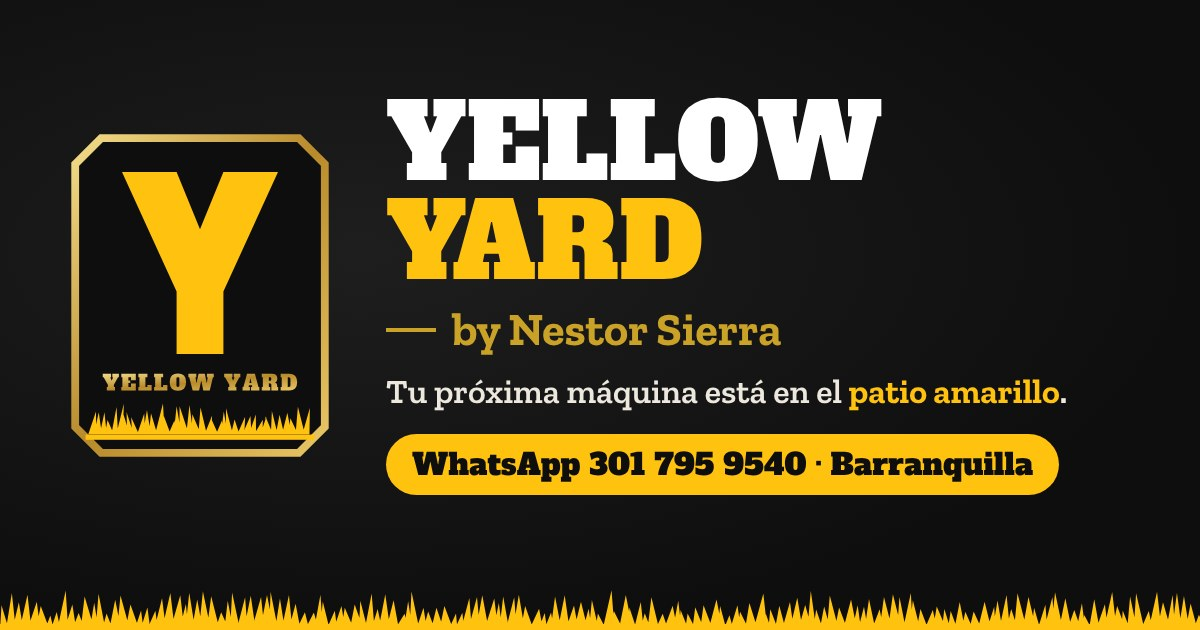
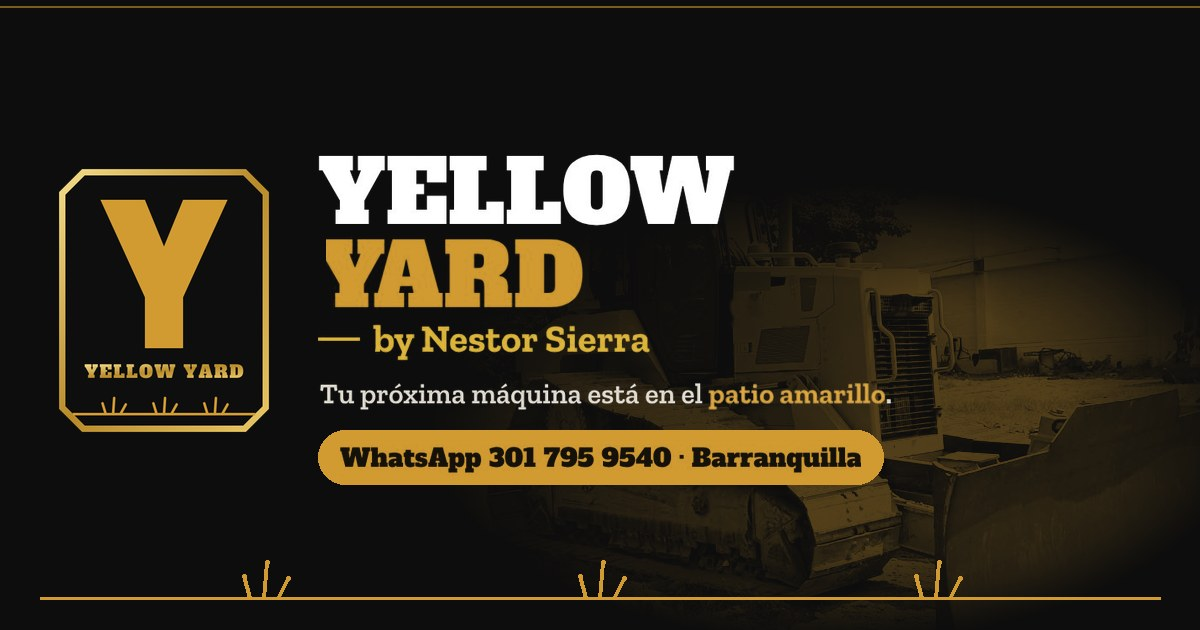
Nueva imagen para compartir (placa ocre, bulldozer de marca de agua, hierba fina) con nombre nuevo para saltar la caché; página /patio/ para compartir el catálogo
Claude-Session: https://claude.ai/code/session_011xGg7prnuv1vopMiUNhF7g

diff --git a/patio/index.html b/patio/index.html
@@ -1,0 +1,24 @@
+<!doctype html>
+<html lang="es"><head><meta charset="utf-8">
+<meta name="viewport" content="width=device-width, initial-scale=1">
+<title>Yellow Yard by Nestor Sierra · Maquinaria en Barranquilla</title>
+<meta name="description" content="Tu próxima máquina está en el patio amarillo. Maquinaria y vehículos usados en venta, verificables en Barranquilla. WhatsApp 301 795 9540.">
+<meta property="og:type" content="website">
+<meta property="og:site_name" content="Yellow Yard">
+<meta property="og:title" content="Yellow Yard by Nestor Sierra · Tu próxima máquina está en el patio amarillo">
+<meta property="og:description" content="Tu próxima máquina está en el patio amarillo. Maquinaria y vehículos usados en venta, verificables en Barranquilla. WhatsApp 301 795 9540.">
+<meta property="og:url" content="https://ventaslnequipos-ux.github.io/vitrina/patio/">
+<meta property="og:image" content="https://ventaslnequipos-ux.github.io/vitrina/portada-2611.jpg">
+<meta property="og:image:secure_url" content="https://ventaslnequipos-ux.github.io/vitrina/portada-2611.jpg">
+<meta property="og:image:type" content="image/jpeg">
+<meta property="og:image:width" content="1200">
+<meta property="og:image:height" content="630">
+<meta property="og:image:alt" content="Yellow Yard by Nestor Sierra: placa con la Y ocre, bulldozer de fondo y WhatsApp 301 795 9540">
+<meta property="og:updated_time" content="2026-11-09T19:30:00-05:00">
+<meta property="og:locale" content="es_CO">
+<meta name="twitter:card" content="summary_large_image">
+<meta name="twitter:image" content="https://ventaslnequipos-ux.github.io/vitrina/portada-2611.jpg">
+<noscript><meta http-equiv="refresh" content="0; url=../"></noscript>
+<script>location.replace("../" + location.search + location.hash);</script>
+<style>body{margin:0;background:#0D0D0D;color:#ECE8DE;font-family:Georgia,serif;display:grid;place-items:center;min-height:100vh}a{color:#D29B32}</style>
+</head><body><p>Abriendo el patio… <a href="../">Ver los equipos</a></p></body></html>

diff --git a/index.html b/index.html
@@ -11,12 +11,16 @@
 <meta property="og:title" content="Yellow Yard by Nestor Sierra · Tu próxima máquina está en el patio amarillo">
 <meta property="og:description" content="Tu próxima máquina está en el patio amarillo. Maquinaria y vehículos usados en venta, verificables en Barranquilla. WhatsApp 301 795 9540.">
 <meta property="og:url" content="https://ventaslnequipos-ux.github.io/vitrina/">
-<meta property="og:image" content="https://ventaslnequipos-ux.github.io/vitrina/og.jpg">
+<meta property="og:image" content="https://ventaslnequipos-ux.github.io/vitrina/portada-2611.jpg">
+<meta property="og:image:secure_url" content="https://ventaslnequipos-ux.github.io/vitrina/portada-2611.jpg">
+<meta property="og:image:type" content="image/jpeg">
 <meta property="og:image:width" content="1200">
 <meta property="og:image:height" content="630">
+<meta property="og:image:alt" content="Yellow Yard by Nestor Sierra: placa con la Y ocre, bulldozer de fondo y WhatsApp 301 795 9540">
+<meta property="og:updated_time" content="2026-11-09T19:30:00-05:00">
 <meta property="og:locale" content="es_CO">
 <meta name="twitter:card" content="summary_large_image">
-<meta name="twitter:image" content="https://ventaslnequipos-ux.github.io/vitrina/og.jpg">
+<meta name="twitter:image" content="https://ventaslnequipos-ux.github.io/vitrina/portada-2611.jpg">
 <link rel="canonical" href="https://ventaslnequipos-ux.github.io/vitrina/">
 <link rel="icon" href="logo.svg" type="image/svg+xml">
 <link rel="preconnect" href="https://fonts.googleapis.com">

diff --git a/anterior.html b/anterior.html
@@ -10,12 +10,16 @@
 <link rel="icon" href="favicon.svg" type="image/svg+xml">
 <meta property="og:description" content="Tu próxima máquina está en el patio amarillo. Maquinaria y vehículos usados en venta, verificables en Barranquilla. WhatsApp 301 795 9540.">
 <meta property="og:url" content="https://ventaslnequipos-ux.github.io/vitrina/">
-<meta property="og:image" content="https://ventaslnequipos-ux.github.io/vitrina/og.jpg">
+<meta property="og:image" content="https://ventaslnequipos-ux.github.io/vitrina/portada-2611.jpg">
+<meta property="og:image:secure_url" content="https://ventaslnequipos-ux.github.io/vitrina/portada-2611.jpg">
+<meta property="og:image:type" content="image/jpeg">
 <meta property="og:image:width" content="1200">
 <meta property="og:image:height" content="630">
+<meta property="og:image:alt" content="Yellow Yard by Nestor Sierra: placa con la Y ocre, bulldozer de fondo y WhatsApp 301 795 9540">
+<meta property="og:updated_time" content="2026-11-09T19:30:00-05:00">
 <meta property="og:locale" content="es_CO">
 <meta name="twitter:card" content="summary_large_image">
-<meta name="twitter:image" content="https://ventaslnequipos-ux.github.io/vitrina/og.jpg">
+<meta name="twitter:image" content="https://ventaslnequipos-ux.github.io/vitrina/portada-2611.jpg">
 <meta name="robots" content="noindex">
 <title>Yellow Yard · Maquinaria</title>
 <meta name="claude:viewport-fit-sides" content="cover">
